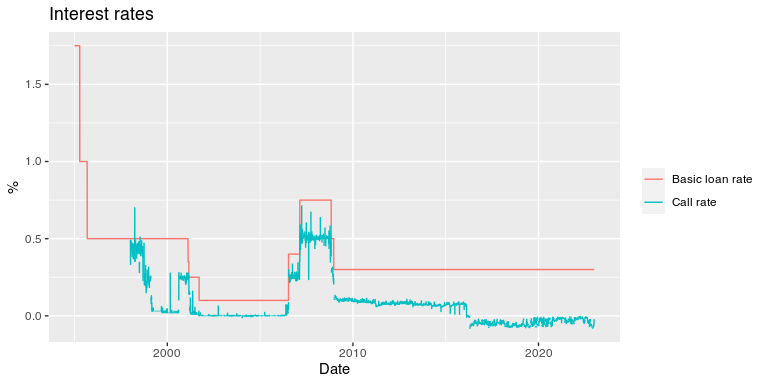
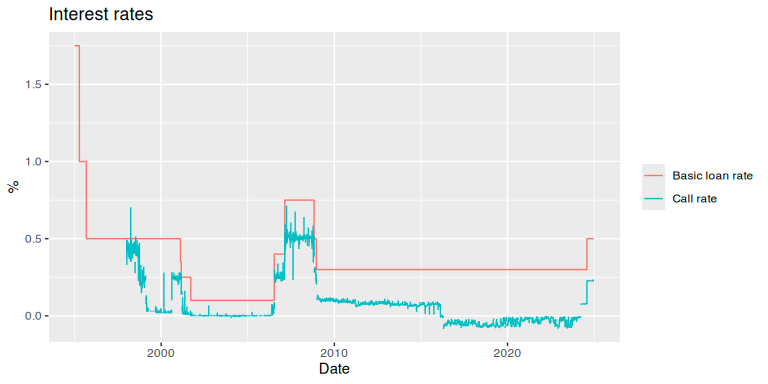
Add files for version 0.1 via upload

diff --git a/README.md b/README.md
@@ -3,17 +3,17 @@ BOJfame
 
 The `BOJfame` package provides an `R` interface to the Bank of Japan’s
 [Time-Series Data
-Search](https://www.stat-search.boj.or.jp/index_en.html) portal.
-Specifically, it allows users to download individual series codes
-directly from within R using exact series codes.
+Search](https://www.stat-search.boj.or.jp/index_en.html) portal. It
+allows users to download data directly into R using individual series
+codes.
 
-The name derives from the “famecgi2” script underpinning the BOJ’s
-database system; most likely this is a reference to the
+The package name `BOJfame` refers to the “famecgi2” script underpinning
+the BOJ’s database system, likely named after the
 [FAME](https://en.wikipedia.org/wiki/FAME_(database)) database tool.
 
-## Install package
+## Installing the package
 
-The package can be installed from Github.
+You can install the package directly from GitHub:
 
 ``` r
 library(devtools)
@@ -22,32 +22,31 @@ install_github("stefanangrick/BOJfame")  # GitHub
 
 ## Example usage
 
-To import data, first load the package.
+To start using the package, load it into your R session.
 
 ``` r
 library("BOJfame")
 ```
 
-Next, we run the `get_bojfame()` function to download two data series.
-Note that data series need to be of the same frequency, otherwise an
-error is returned. In the example below, we download two daily-frequency
-time series. We use `start_year` and `end_year` to specify the desired
-date range.
+Next, use the `get_bojfame()` function to download data series. Ensure
+that all series have the same frequency, or the function will return an
+error. The following example retrieves two daily-frequency series for a
+specified date range:
 
 ``` r
 bojdata <- get_bojfame(series_codes = c("FM01'STRDCLUCON", "IR01'MADR1Z@D"),
-                       start_year = 1995, end_year = 2022)
+                       start_year = 1995, end_year = 2024)
 ```
 
-The `get_bojfame()` function returns a list with a
-[tibble](https://tibble.tidyverse.org/) data frame holding the actual
-data. Access the data using `$data` variable.
+The `get_bojfame()` function returns a list containing two key elements.
+First, a [tibble](https://tibble.tidyverse.org/) data frame with the
+actual time-series data, accessible via `$data`.
 
 ``` r
 bojdata$data
 ```
 
-    ## # A tibble: 20,454 × 3
+    ## # A tibble: 21,916 × 3
     ##    date       indicator       obs_value
     ##    <date>     <chr>               <dbl>
     ##  1 1995-01-01 FM01'STRDCLUCON     NA   
@@ -60,10 +59,10 @@ bojdata$data
     ##  8 1995-01-04 IR01'MADR1Z@D        1.75
     ##  9 1995-01-05 FM01'STRDCLUCON     NA   
     ## 10 1995-01-05 IR01'MADR1Z@D        1.75
-    ## # ℹ 20,444 more rows
+    ## # ℹ 21,906 more rows
 
-Use `$meta` to access a [tibble](https://tibble.tidyverse.org/) data
-frame holding relevant meta data.
+Second, a [tibble](https://tibble.tidyverse.org/) data frame with
+metadata, accessible via `$meta`.
 
 ``` r
 bojdata$meta
@@ -78,12 +77,12 @@ bojdata$meta
     ## 4 Statistical category Call Rate                                 The Basic Disc…
     ## 5 Observation          AVERAGED                                  END            
     ## 6 start of time-series 1998/01/05                                1882/10/11     
-    ## 7 End of time-series   2023/07/05                                2023/07/05     
+    ## 7 End of time-series   2024/12/26                                2024/12/26     
     ## 8 Frequency            DAILY                                     DAILY          
     ## 9 Notes                <NA>                                      <NA>
 
-To plot the data using [ggplot2](https://ggplot2.tidyverse.org), run the
-below.
+To plot the data with [ggplot2](https://ggplot2.tidyverse.org), run the
+following:
 
 ``` r
 library("dplyr")
@@ -102,12 +101,12 @@ ggplot(bojdata$data, aes(x = date, y = obs_value)) +
 
 ![](README_files/figure-gfm/plot-1.png)<!-- -->
 
-Note that BOJ data sets come with a number of different time formats.
-The [zoo](https://cran.r-project.org/package=zoo) package
-(e.g. `as.yearmon()`) should be able to parse most formats.
+Note that BOJ data sets use various time formats. The
+[zoo](https://cran.r-project.org/package=zoo) package (e.g.,
+`as.yearmon()`) can handle most of these formats.
 
 ## Note
 
-This package is in no way officially related to or endorsed by the [Bank
-of Japan](https://www.boj.or.jp/). Please don’t abuse the BOJ’s servers
-with unnecessary calls.
+This package is neither officially related to nor endorsed by the [Bank
+of Japan](https://www.boj.or.jp/). Please avoid overloading the BOJ
+servers with unnecessary requests.
